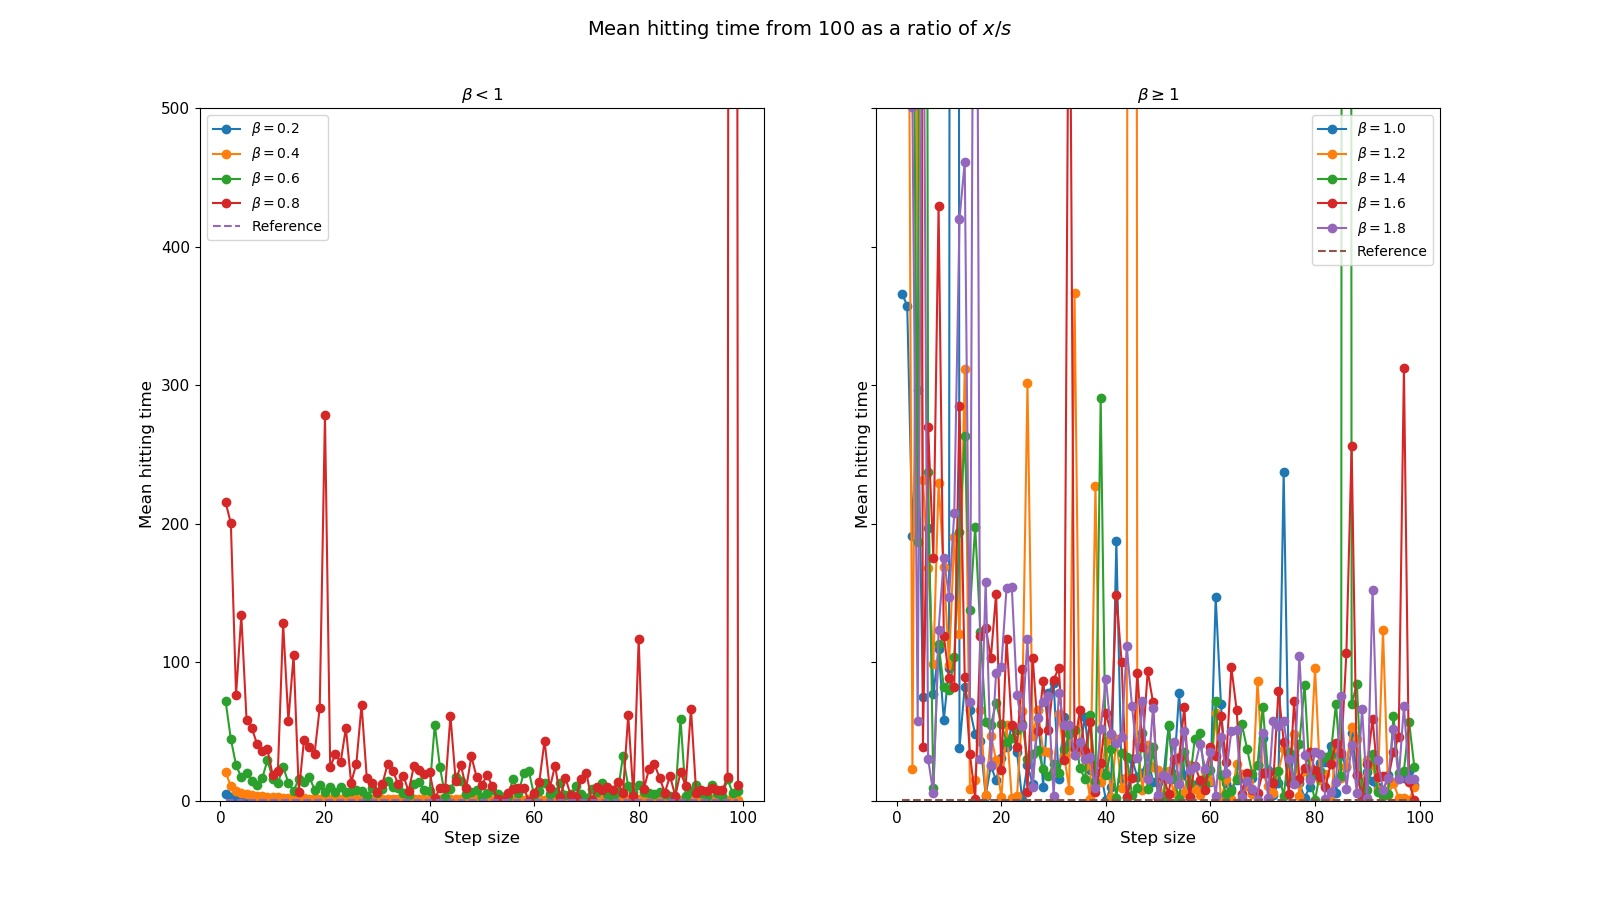
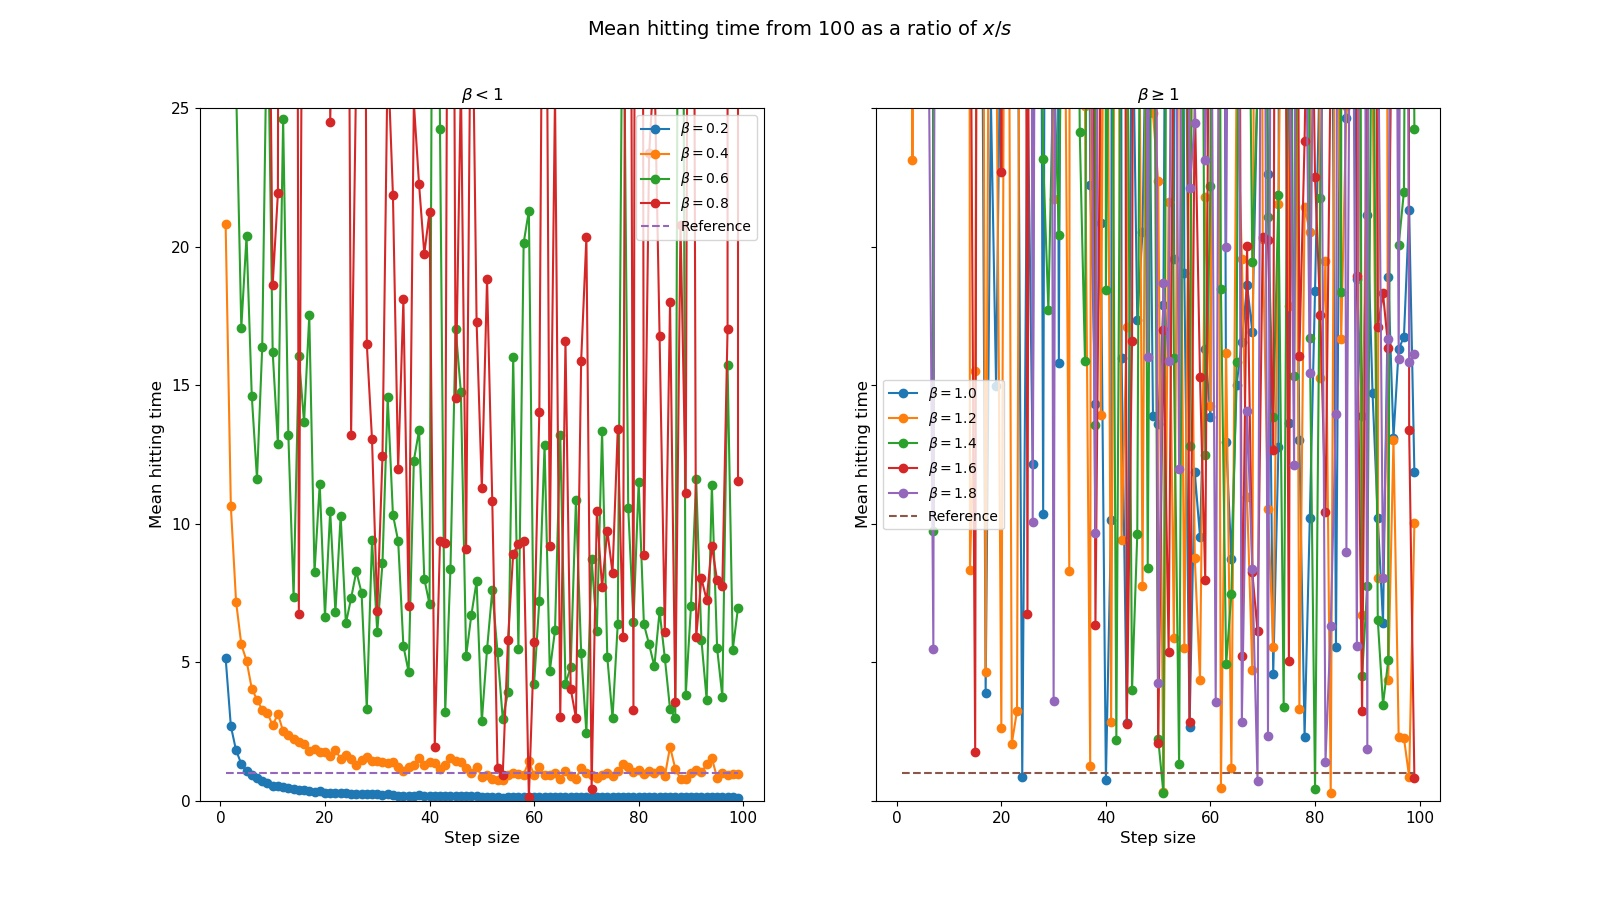
Zooming, enhancing around s=80

diff --git a/src/varstep/plotmaker_ratio.py b/src/varstep/plotmaker_ratio.py
@@ -35,7 +35,7 @@ for splot in m_splots:
     splot.set_xlabel('Step size', fontsize=label_fontsize)
     splot.set_ylabel('Mean hitting time', fontsize=label_fontsize)
     splot.tick_params(axis='both', labelsize=axis_fontsize)
-    splot.set_ybound(0,500)
+    splot.set_ybound(0,25)
 m_splots[0].set_title(r'$\beta < 1$', fontsize=label_fontsize)
 m_splots[1].set_title(r'$\beta \geq 1$', fontsize=label_fontsize)
 
@@ -58,7 +58,7 @@ for splot in s_splots:
     splot.set_xlabel('Step size', fontsize=label_fontsize)
     splot.set_ylabel('STD of hitting time', fontsize=label_fontsize)
     splot.tick_params(axis='both', labelsize=axis_fontsize)
-    splot.set_ybound(0,500)
+    splot.set_ybound(0,25)
 s_splots[0].set_title(r'$\beta < 1$', fontsize=label_fontsize)
 s_splots[1].set_title(r'$\beta \geq 1$', fontsize=label_fontsize)
 
